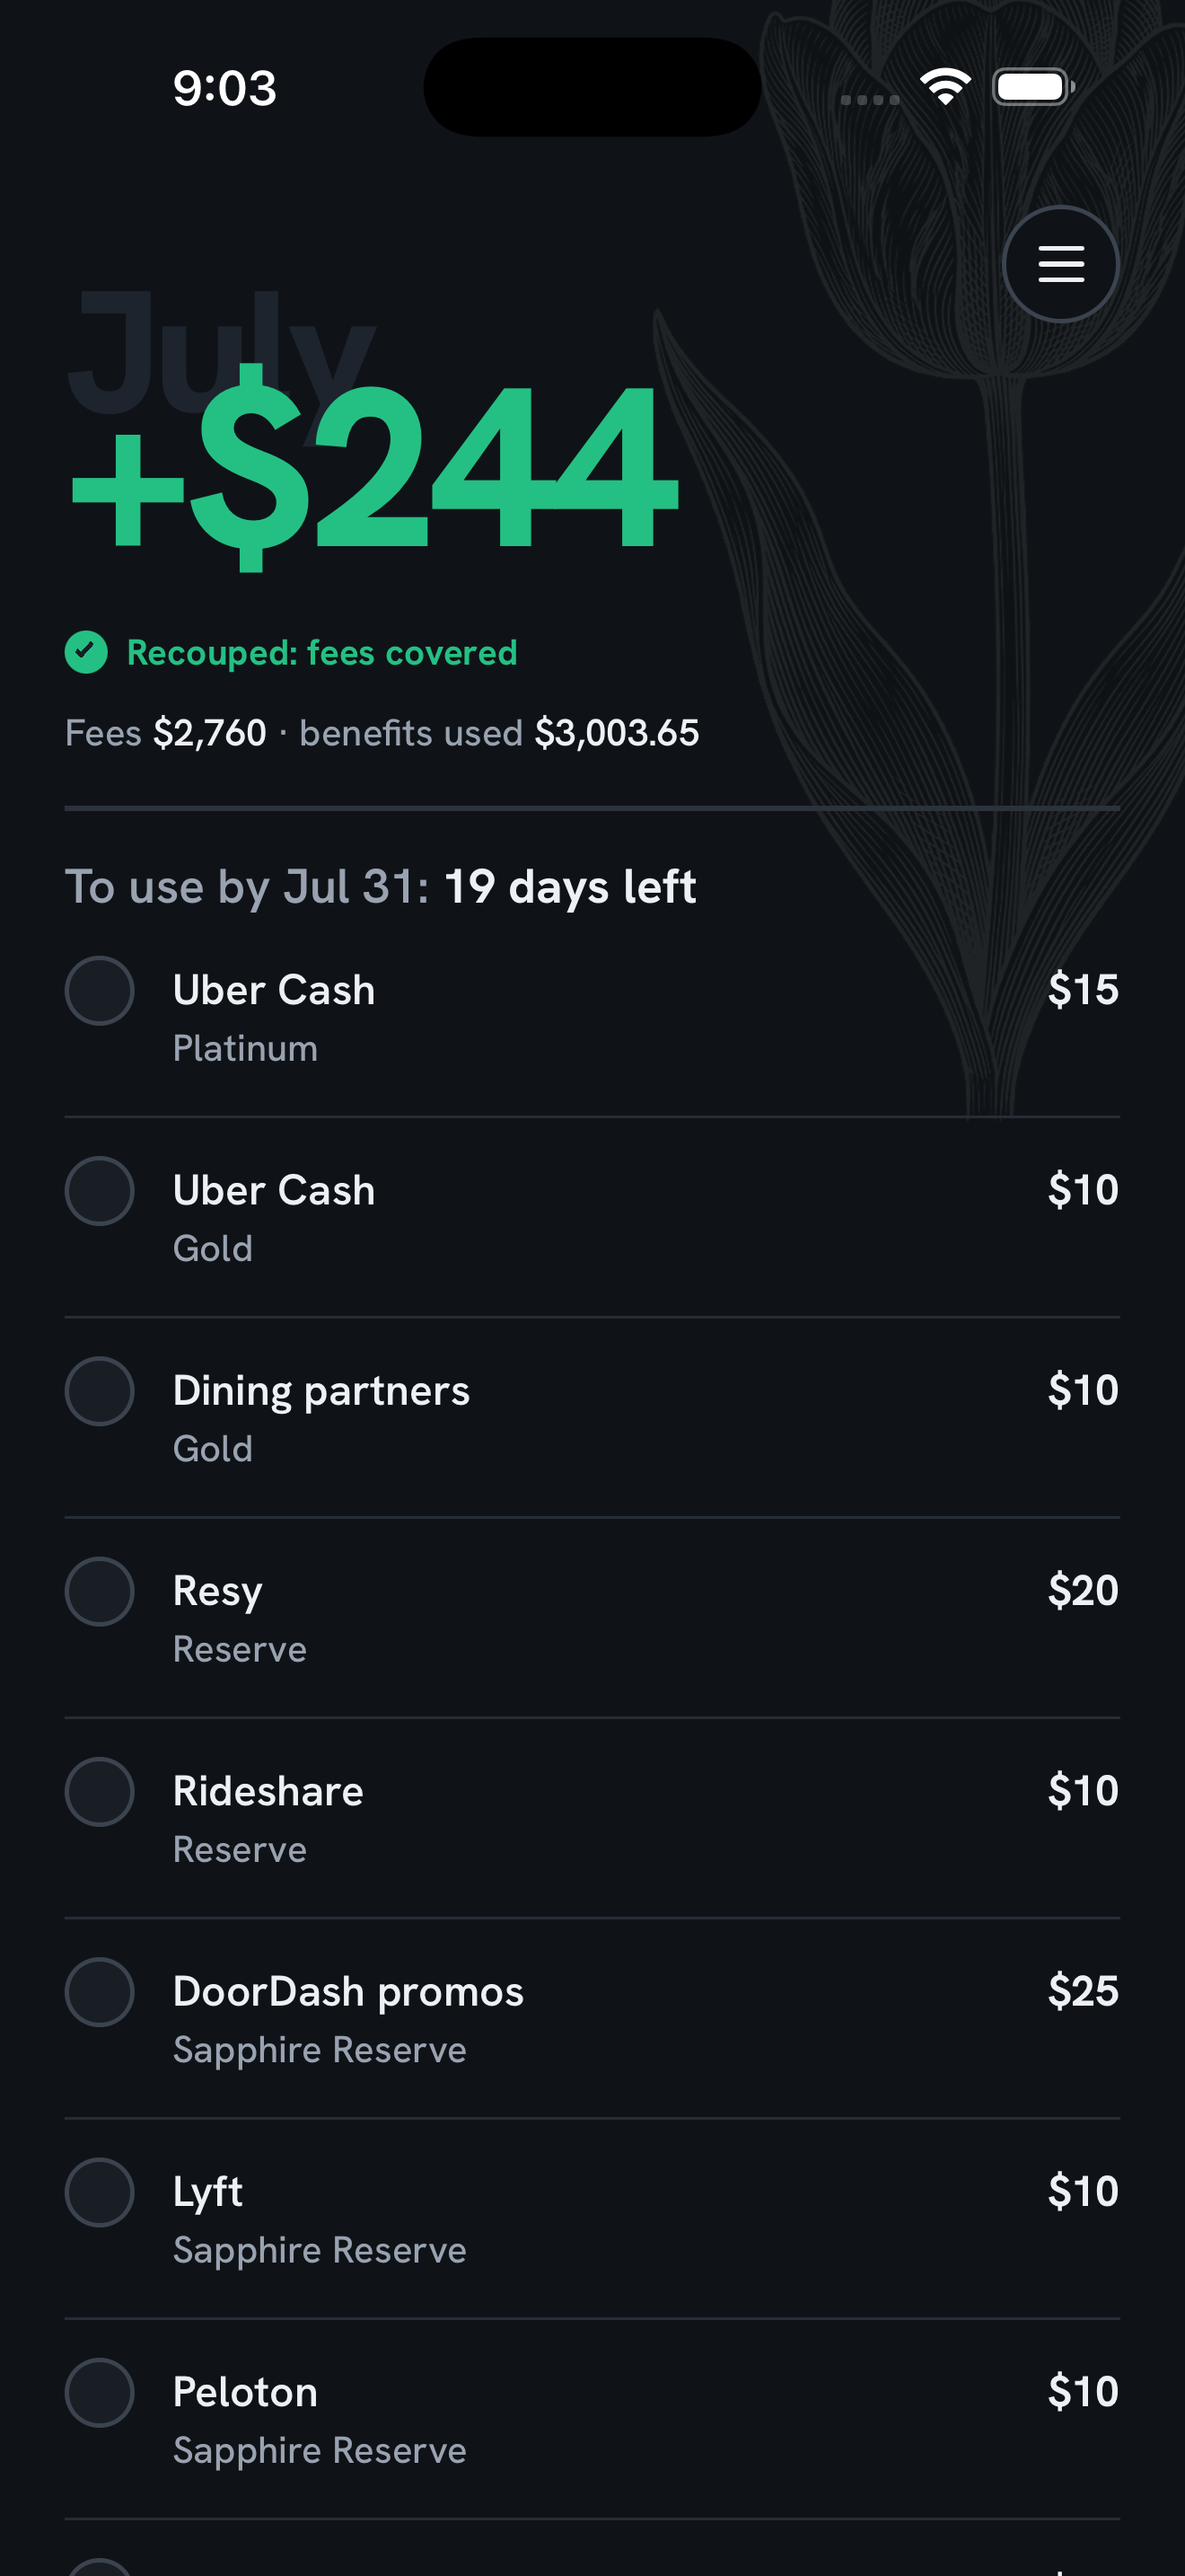
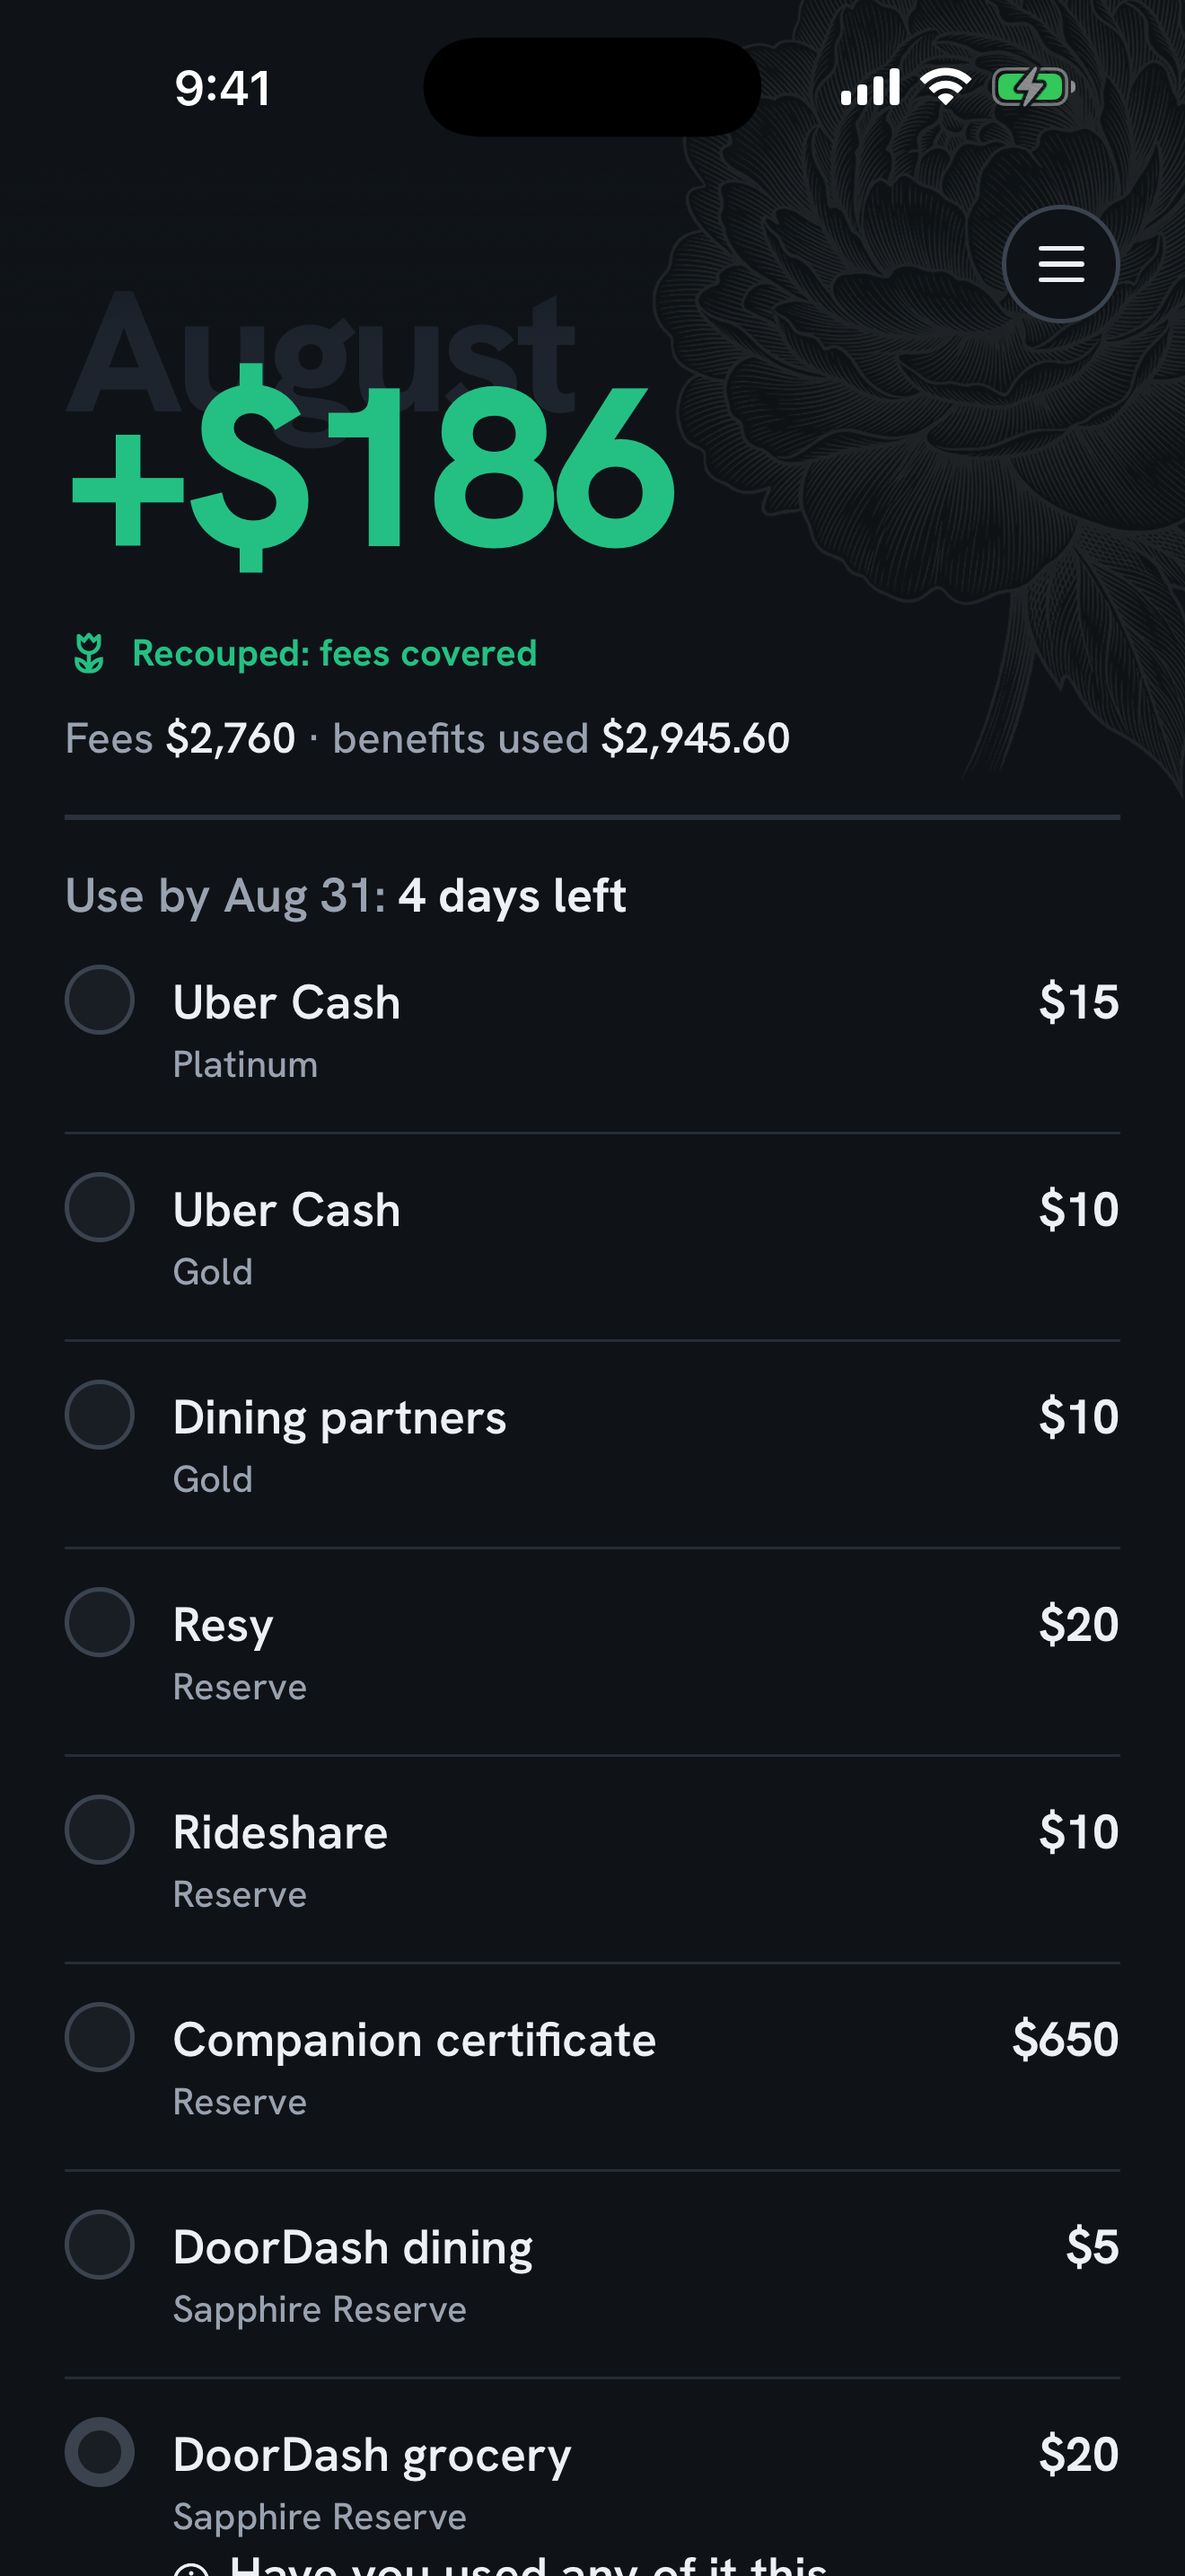
Screens: recapture all 17 from 1.0.1 build 26
Replace every screen asset with fresh captures from the released build
(2026-08-26). The old set was from 2026-07-26 and showed the pre-launch UI:
July data, a retired benefit name, old onboarding step count, smaller type,
and greys that failed WCAG AA.

Alt text and labels follow the new pixels: dashboard and hero say August,
net +$186; slide 04 names the Amex Platinum; the lineup pill reads American
Express Gold Card. The hero serves the native 1320x2868 capture (stale 2x
files removed along with the retired 09/10 slides).

Mirrored from jmilly71/jmd-projects recoup-site, commit 4b9330a.

Claude-Session: https://claude.ai/code/session_01SDv4HF5BjsiVpwdW1oWdEq

diff --git a/src/config.ts b/src/config.ts
@@ -63,7 +63,7 @@ export const isLaunched = launchState === 'launched' && Boolean(site.appStoreUrl
  */
 export const launchCards = [
   { issuer: 'American Express', name: 'The Platinum Card' },
-  { issuer: 'American Express', name: 'American Express Gold' },
+  { issuer: 'American Express', name: 'Gold Card' },
   { issuer: 'American Express', name: 'Delta SkyMiles Reserve' },
   { issuer: 'Chase', name: 'Sapphire Reserve' },
   { issuer: 'Chase', name: 'Sapphire Preferred' },
@@ -74,14 +74,15 @@ export const launchCards = [
  * right-to-left. Eight frameless raw captures (1320×2868 PNG) in numbered slide
  * order, sourced from design/site/screens (NOT design/site/raw-v2, the framed
  * App Store set). They live in `public/screens/`; the site supplies its own
- * rounded card framing. Screens show demo data ("Alex", +$244), so alt text
- * stays illustrative, never testimonial.
+ * rounded card framing. Captured from 1.0.1 build 26 on 2026-08-26. Screens
+ * show demo data (August, net +$186), so alt text stays illustrative, never
+ * testimonial.
  */
 export const realScreens = [
   { file: '01-welcome.png', alt: 'Rēcoup welcome screen: an engraved tulip above the Rēcoup wordmark and a Get started button' },
-  { file: '02-today-hero.png', alt: 'Rēcoup dashboard with demo data: July up $244, fees covered' },
+  { file: '02-today-hero.png', alt: 'Rēcoup dashboard with demo data: August up $186, fees covered' },
   { file: '03-cards-all.png', alt: 'All five launch cards, each with its own engraving and per-card net' },
-  { file: '04-card-detail-enrollment.png', alt: 'Card detail showing per-benefit enrollment: not enrolled, enrolled, and autopilot, with a service picker' },
+  { file: '04-card-detail-enrollment.png', alt: 'American Express Platinum card detail with per-benefit enrollment: not enrolled, enrolled, and autopilot' },
   { file: '05-year-chart.png', alt: 'Year view with the recoup curve crossing the annual fee line' },
   { file: '06-by-benefit-grid.png', alt: 'Month-by-month grid of credits by benefit' },
   { file: '07-about-flowers.png', alt: 'The brand story screen pairing each card with an engraved bloom' },
@@ -89,14 +90,13 @@ export const realScreens = [
 ] as const;
 
 /**
- * The screen shown inside the hero iPhone: the Today dashboard. Real captures
- * live at /screens/hero-month.png and /screens/dark/hero-month.png (the file
- * name is historical; the capture is the dashboard).
+ * The screen shown inside the hero iPhone: the Today dashboard, the same
+ * capture as 02-today-hero (the file name is historical). Native 1320x2868,
+ * which more than covers the hero's rendered size, so there is no separate 2x
+ * asset.
  */
 export const heroScreen = {
   src: '/screens/hero-month.png',
-  src2x: '/screens/hero-month-light-2x.png',
   srcDark: '/screens/dark/hero-month.png',
-  srcDark2x: '/screens/dark/hero-month-dark-2x.png',
-  alt: 'Rēcoup dashboard with demo data: July recouped $244, fees covered',
+  alt: 'Rēcoup dashboard with demo data: August recouped $186, fees covered',
 } as const;

diff --git a/public/screens/MANIFEST.md b/public/screens/MANIFEST.md
@@ -1,48 +1,46 @@
 # App screens
 
-Real captures from the Rēcoup iOS app, iPhone 17 Pro Max, native 1320×2868 (3x)
-PNG. Demo persona "Alex", net +$244, illustrative of the product, never a
+Real captures from the Rēcoup iOS app, iPhone 17 Pro Max, native 1320x2868 (3x)
+PNG. Captured from 1.0.1 (build 26), the version released 2026-08-26. Demo data
+shows August with net +$186, fees covered. Illustrative of the product, never a
 testimonial.
 
 ## Convention
 - **Light** cuts: `public/screens/<name>.png`
 - **Dark** cuts: `public/screens/dark/<name>.png` (same filenames, mirrored)
 
-Swap `/screens/X.png` to `/screens/dark/X.png` under `prefers-color-scheme: dark`
-(mirror the light/dark handling already used for the magnolia bloom art).
+The carousel and hero swap light for dark under `prefers-color-scheme: dark`.
+Dark cuts are optional per slide: if `dark/<name>.png` is absent, that slide
+shows its light capture in both themes.
 
 ## Carousel screens
-Source: the 8 frameless raw captures in `design/site/screens/` (numbered slide
-order). Do NOT use `design/site/raw-v2/`, which is the framed App Store
-submission set (bezels, titles, and captions baked in). The site draws its own
-rounded card framing and section heading, so the carousel wants clean frameless
-screens.
+Source: the frameless raw captures in `design/site/screens/` and
+`design/site/screens-dark/` in the app repo (`jmilly71/recoup`). Do NOT use
+`design/site/raw-v2/`, the framed App Store submission set (bezels, titles, and
+captions baked in). The site draws its own rounded card framing.
 
-Wired in `src/config.ts` `realScreens`: 01 through 08 (8 slides). `09-your-cards`
-and `10-claim-drawer` are retired from the carousel.
+Wired in `src/config.ts` `realScreens`: 01 through 08. The retired 09 and 10
+files are deleted.
 
 | file | screen |
 |------|--------|
 | 01-welcome | tulip + wordmark + Get started |
-| 02-today-hero | dashboard, "July +$244, fees covered" |
+| 02-today-hero | dashboard, "August +$186, fees covered" |
 | 03-cards-all | all 5 cards, per-card net + engravings |
-| 04-card-detail-enrollment | Enrollment / Autopilot + service picker |
+| 04-card-detail-enrollment | Amex Platinum, Enrollment / Autopilot states |
 | 05-year-chart | recoup curve crossing the fee line |
 | 06-by-benefit-grid | month-by-month credit grid |
 | 07-about-flowers | "The flowers" brand story |
-| 08-onboarding | "Which cards do you carry?" |
-
-Dark cuts are optional per slide: if `dark/<name>.png` is absent, that slide
-shows its light capture in both themes.
+| 08-onboarding | "Which cards do you carry?", step 2 of 6 |
 
 ## Hero
-The month view, the Today dashboard ("July +$244, fees covered"), same capture
-as `02-today-hero`. Replaces the interim `hero-month.svg`.
+`hero-month.png` / `dark/hero-month.png`: the Today dashboard, a second copy of
+`02-today-hero` at identical framing (the file name is historical). Native
+1320x2868 covers the hero's rendered size, so the old separate 2x assets are
+gone and the hero serves the 1x only.
 
-- `hero-month.png` / `dark/hero-month.png`: 1× (1320×2868)
-- `hero-month-light-2x.png` / `dark/hero-month-dark-2x.png`: 2× (2640×5736), for
-  a large or retina hero
-
-Prefer the 2× files for the hero (use `srcset` with the 1× as fallback, or point
-`heroScreen.src` straight at the 2× and let the frame scale it down). Swap the
-light and dark pair on `prefers-color-scheme: dark`.
+## Shelf life
+Anything showing a month or a day count ages. This set says "August" and
+"4 days left". Recapture when that reads conspicuously stale, or when the app's
+type scale or colors change again. The capture notes live in the app repo at
+`design/site/README-screens.md`.

diff --git a/LAUNCH.md b/LAUNCH.md
@@ -37,14 +37,19 @@ above Apple's 40px minimum with more than quarter-height clear space around it.
 
 ## Still to do
 
-- Re-shoot the app screenshots. The current shots are from 2026-07-26 and show
-  the pre-build-24 UI (smaller text, lighter greys) than the app people now
-  download. Affected: the 8 carousel slides in `public/screens/` (light) and
-  `public/screens/dark/` (dark), plus the hero image. Recapture on the Mac (the
-  capture tools live under `design/appstore/tools/`), then drop the new PNGs in
-  under the same filenames. Tell me if any screen's content changed and I will
-  update the alt text in `config.ts`. This is now the most visible gap, since
-  the site is the front door for the launch.
+Nothing is open right now.
+
+- DONE 2026-08-29: screenshots re-shot. All 17 assets (8 light, 8 dark, dark
+  hero; the light hero is the same capture as the light Today slide) now come
+  from 1.0.1 build 26, released 2026-08-26, pulled from the app repo
+  (`jmilly71/recoup`, commit 6857077, `design/site/screens` and
+  `screens-dark`). Alt text and `public/screens/MANIFEST.md` updated to match
+  (August, net +$186, Amex Platinum on slide 04). The retired 09/10 files and
+  the stale hero 2x assets were deleted; the hero serves the native 1320x2868
+  capture, which covers its rendered size.
+- Shelf life to watch: the captures say "August" and "4 days left". Recapture
+  when that reads stale or when the app's type or colors change again (notes in
+  the app repo at `design/site/README-screens.md`).
 
 ## Already verified on 2026-08-20 (no action needed)
 
